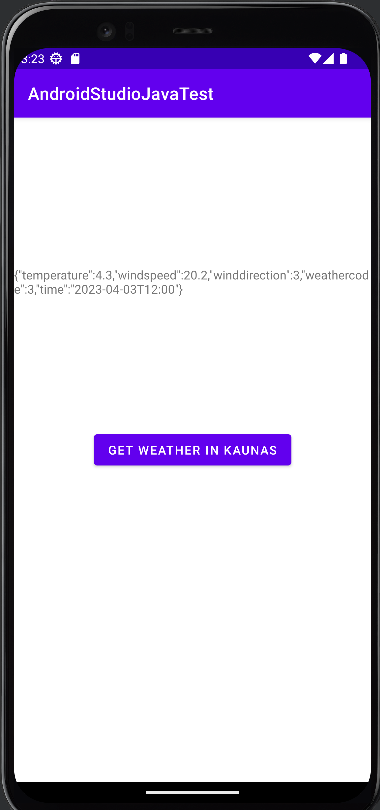
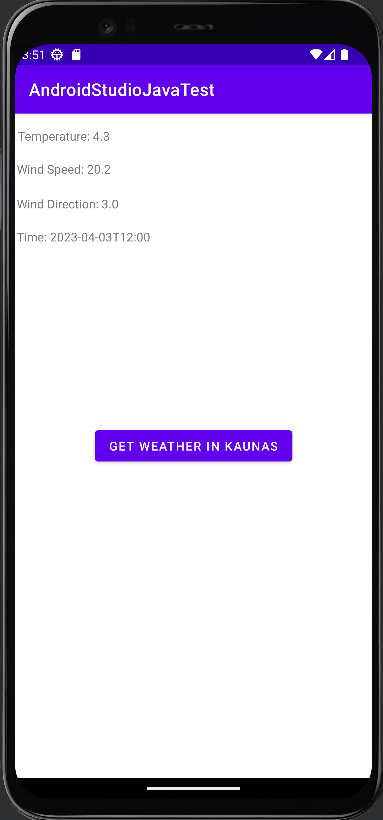
Extracted values from JSON
Extracted values from JSON and created labels for each value. Updated Image.

diff --git a/app/src/main/java/com/example/androidstudiojavatest/MainActivity.java b/app/src/main/java/com/example/androidstudiojavatest/MainActivity.java
@@ -14,13 +14,14 @@ import com.android.volley.VolleyError;
 import com.android.volley.toolbox.JsonObjectRequest;
 import com.android.volley.toolbox.Volley;
 
+import org.json.JSONException;
 import org.json.JSONObject;
 
 
 public class MainActivity extends AppCompatActivity {
 
     public interface WeatherCallback{
-        void onSuccess(String response);
+        void onSuccess(JSONObject response);
         void onError(String error);
     }
 
@@ -30,7 +31,10 @@ public class MainActivity extends AppCompatActivity {
         setContentView(R.layout.activity_main);
 
         Button btn = findViewById(R.id.getWeather);
-        TextView label = findViewById(R.id.displayTemp);
+        TextView labelTemp = findViewById(R.id.displayTemp);
+        TextView labelWindSpeed = findViewById(R.id.displayWindSpeed);
+        TextView labelWindDirection = findViewById(R.id.displayWindDirection);
+        TextView labelTime = findViewById(R.id.displayTime);
 
         double lonKaunas = 54.898521;
         double latKaunas = 23.903597;
@@ -39,13 +43,21 @@ public class MainActivity extends AppCompatActivity {
             public void onClick(View view) {
                 getWeatherByCoords(lonKaunas, latKaunas, new WeatherCallback() {
                     @Override
-                    public void onSuccess(String response) {
-                        label.setText(response);
+                    public void onSuccess(JSONObject response) {
+
+                        try {
+                            labelTemp.setText("Temperature: " + response.getString("temperature"));
+                            labelWindSpeed.setText("Wind Speed: " + response.getString("windspeed"));
+                            labelWindDirection.setText("Wind Direction: " + response.getString("winddirection"));
+                            labelTime.setText("Time: " + response.getString("time"));
+                        } catch (JSONException e) {
+                            throw new RuntimeException(e);
+                        }
                     }
 
                     @Override
                     public void onError(String error) {
-                        label.setText("Failed to get data");
+                        labelTemp.setText("Failed to get data");
                     }
                 });
             }
@@ -57,7 +69,7 @@ public class MainActivity extends AppCompatActivity {
                 new Response.Listener<JSONObject>() {
                     public void onResponse(JSONObject response) {
                         try {
-                            String weather = response.getString("current_weather");
+                            JSONObject weather = response.getJSONObject("current_weather");
                             callback.onSuccess(weather);
                         } catch (Exception e) {
                         }
